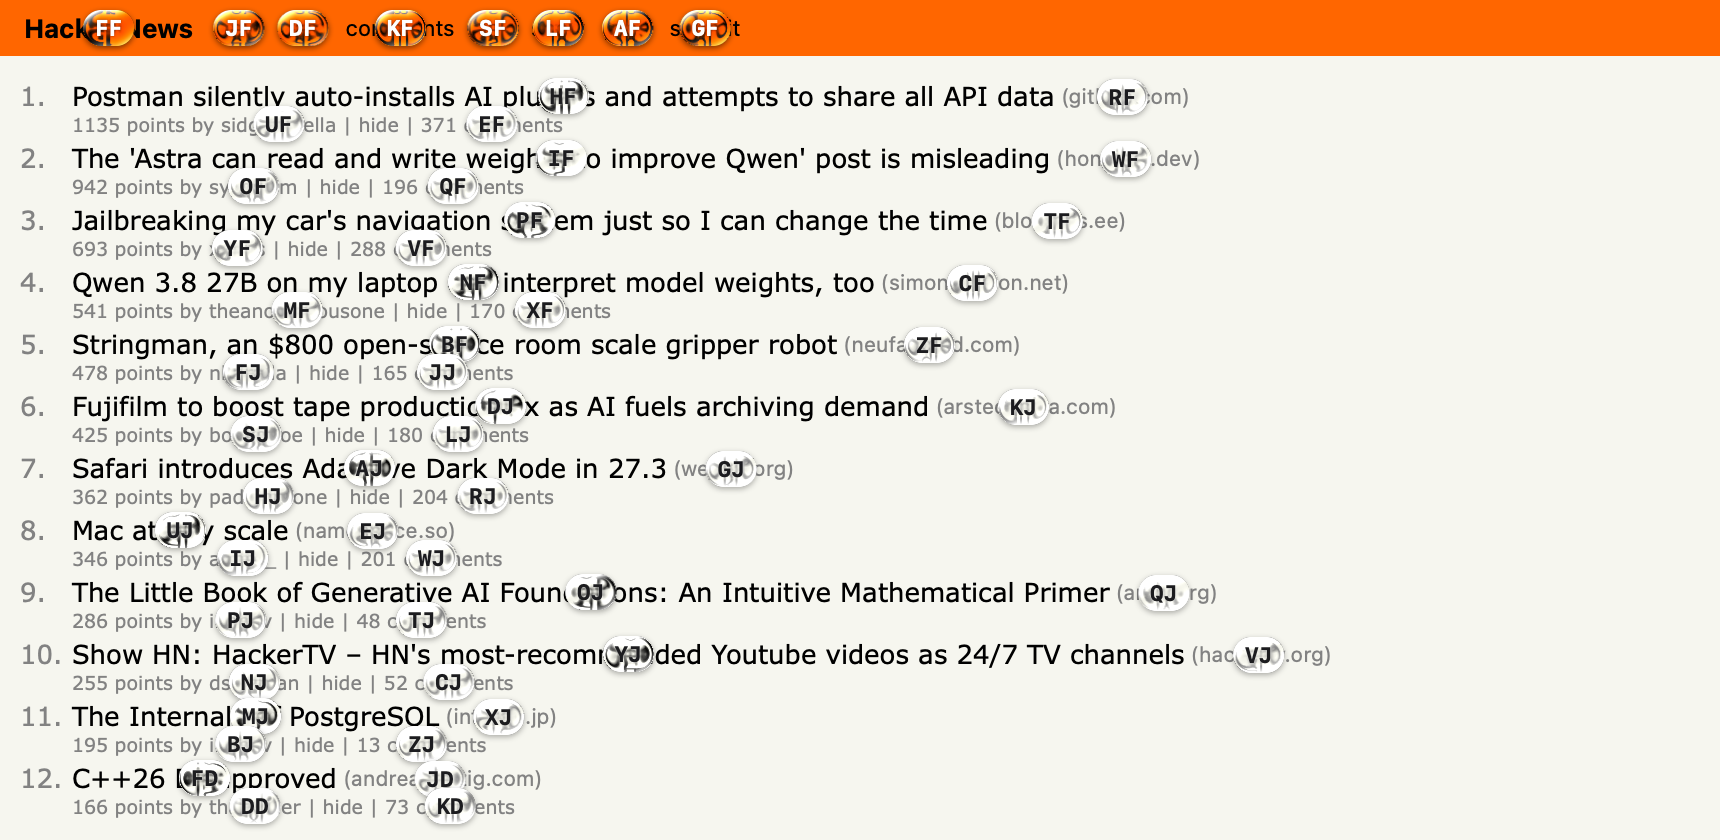
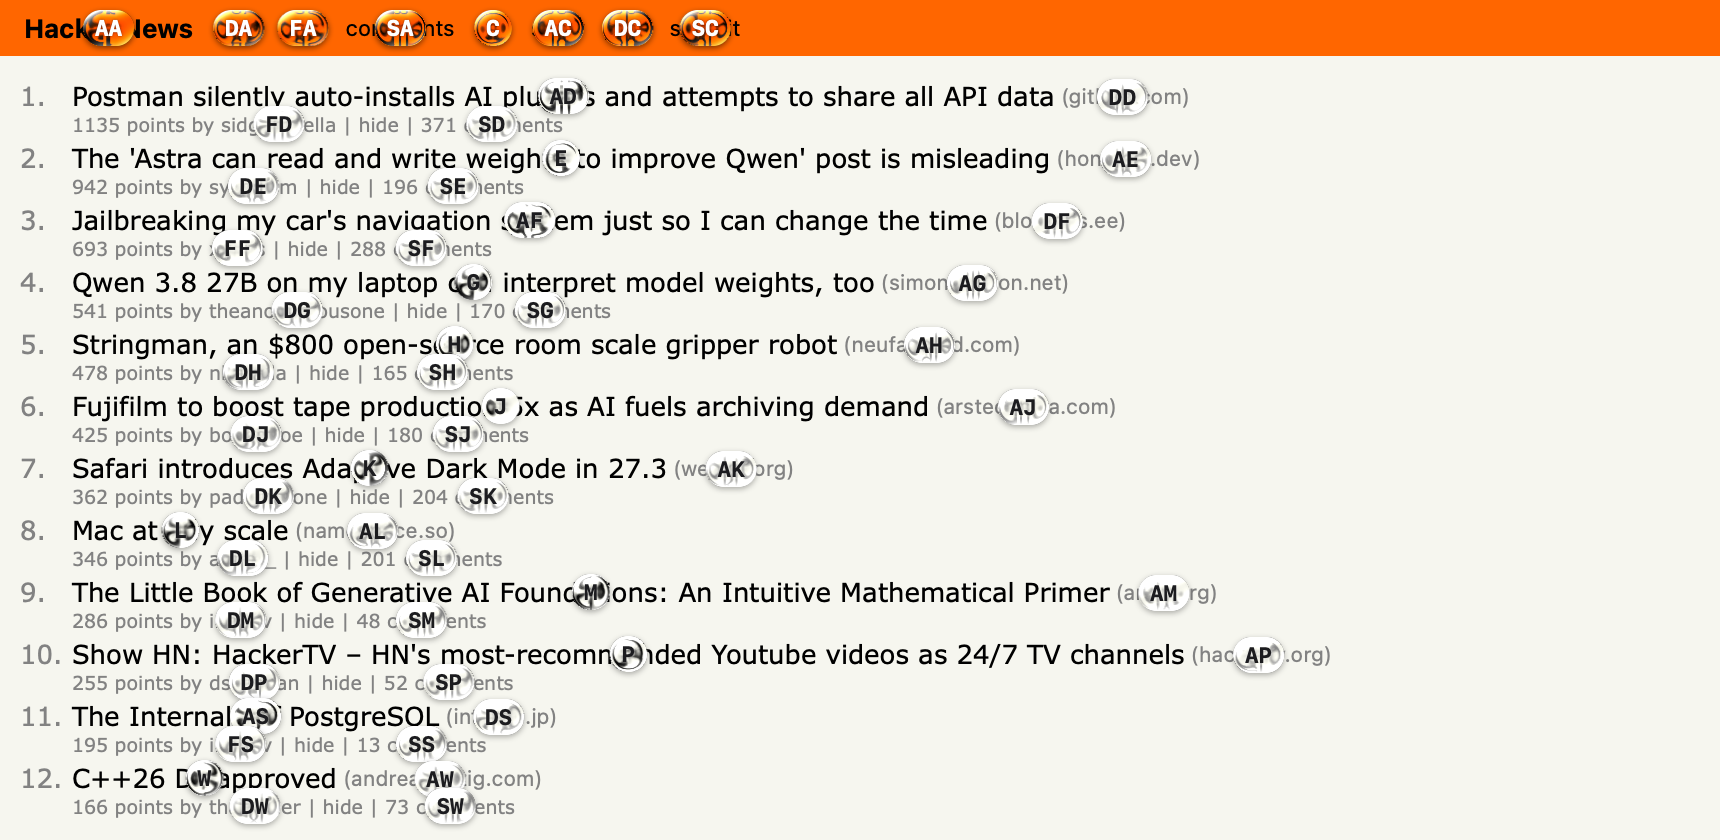
update: 라벨 찾기 2–3배 빠르게, Vimium 라벨 글자, 라벨 사라짐 효과 옵션
- 창 훑기와 열린 메뉴·앱 메뉴·상태 아이콘·Dock 찾기를 동시에, 웹 요소 속성은 4갈래로 나눠 묻기 (찾는 대상은 그대로)
- 라벨 글자 기본값을 Vimium 의 sadfjklewcmpgh 로, 라벨은 Vimium 처럼 적으면 한 글자·많으면 일부만 두 글자
- 설정 › 라벨 클릭에 '라벨이 닫힐 때 서서히 사라지기' (기본 꺼짐)
- README·문서 그림·설정 파일 갱신

diff --git a/hanmium/Sources/Hanmium/TreeBuilder.swift b/hanmium/Sources/Hanmium/TreeBuilder.swift
@@ -85,12 +85,24 @@ final class TreeBuilder {
         AXEnabler.enable(app: app, pid: pid, bundleID: bundleID)
         profile.mark("AX 켜기")
 
-        // 메뉴가 열려 있으면 메뉴 항목만 대상으로 한다
-        let menus = openMenus()
-        profile.mark("열린 메뉴 확인")
-        if !menus.isEmpty {
-            for menu in menus { walk(menu, clip: screenBounds, depth: 0, owner: nil) }
-            return Snapshot(elements: targets, anchor: nil)
+        // 열린 메뉴 확인과 창 밖 대상(앱 메뉴 막대·상태 아이콘·Dock)은 창 훑기와 따로 물을 수 있어서 동시에 한다.
+        // 차례로 하면 기다린 시간이 모두 더해졌다(창 40ms + 상태 아이콘 30ms + …). 상태 아이콘·Dock 은 다른 프로세스다.
+        let side = SideTargets()
+        let group = DispatchGroup()
+        let lane = DispatchQueue.global(qos: .userInteractive)
+        lane.async(group: group) { side.menus = self.openMenus() }
+        lane.async(group: group) {
+            if let bar = AX.element(AX.copy(self.app, kAXMenuBarAttribute)) {
+                side.menuBar = Self.fetchAll(AX.elements(AX.copy(bar, kAXChildrenAttribute)), clip: self.screenBounds)
+            }
+        }
+        lane.async(group: group) { side.extras = Self.fetchAll(self.menubarExtras(), clip: self.screenBounds) }
+        if let dockPid {
+            lane.async(group: group) {
+                let dock = AXUIElementCreateApplication(dockPid)
+                let items = AX.elements(AX.copy(dock, kAXChildrenAttribute)).flatMap { AX.elements(AX.copy($0, kAXChildrenAttribute)) }
+                side.dock = Self.fetchAll(items, clip: self.screenBounds)
+            }
         }
 
         var snap = Snapshot()
@@ -107,21 +119,44 @@ final class TreeBuilder {
                 profile.mark("WezTerm 패널")
             }
         }
-        if let bar = AX.element(AX.copy(app, kAXMenuBarAttribute)) {
-            addFlat(AX.elements(AX.copy(bar, kAXChildrenAttribute)))
+        group.wait()
+        profile.mark("메뉴 막대·상태 아이콘·Dock 기다림")
+        // 메뉴가 열려 있으면 메뉴 항목만 대상으로 한다 (드물어서 창은 미리 훑어 두고 버린다)
+        if !side.menus.isEmpty {
+            targets = []
+            seenFrames = []
+            for menu in side.menus { walk(menu, clip: screenBounds, depth: 0, owner: nil) }
+            return Snapshot(elements: targets, anchor: nil)
         }
-        profile.mark("앱 메뉴 막대")
-        addFlat(menubarExtras())
-        profile.mark("상태 아이콘(\(extraPids.count)개 앱)")
-        if let dockPid {
-            let dock = AXUIElementCreateApplication(dockPid)
-            for list in AX.elements(AX.copy(dock, kAXChildrenAttribute)) {
-                addFlat(AX.elements(AX.copy(list, kAXChildrenAttribute)))
-            }
-        }
-        profile.mark("Dock")
+        for e in side.menuBar + side.extras + side.dock where isTarget(e, insideTarget: true) { add(e) }
         snap.elements = targets
         return snap
+    }
+
+    /// 창 훑기와 동시에 모으는 창 밖 대상. 각 칸은 한 갈래만 쓰고, 읽는 건 group.wait() 뒤다.
+    private final class SideTargets {
+        var menus: [AXUIElement] = []
+        var menuBar: [Element] = []
+        var extras: [Element] = []
+        var dock: [Element] = []
+    }
+
+    /// 요소 여러 개의 속성을 몇 갈래로 나눠 동시에 묻는다. 하나씩 물으면 왕복 시간이 쌓인다
+    /// (웹 화면 요소 100개: 차례로 11–20ms → 4갈래 5–6ms). 순서는 그대로 둔다.
+    static func fetchAll(_ refs: [AXUIElement], clip: CGRect) -> [Element] {
+        guard refs.count > 12 else { return refs.compactMap { Element.fetch($0, clip: clip) } }
+        let lanes = 4
+        var out = [Element?](repeating: nil, count: refs.count)
+        out.withUnsafeMutableBufferPointer { buf in
+            DispatchQueue.concurrentPerform(iterations: lanes) { lane in
+                var i = lane
+                while i < refs.count {
+                    buf[i] = Element.fetch(refs[i], clip: clip)
+                    i += lanes
+                }
+            }
+        }
+        return out.compactMap { $0 }
     }
 
     private func walk(_ ref: AXUIElement, clip: CGRect, depth: Int, owner: Element?) {
@@ -150,10 +185,8 @@ final class TreeBuilder {
         if hasFrame && Self.clippingRoles.contains(role) { childClip = clip.intersection(e.frame) }
 
         if role == "AXWebArea", Config.useSearchPredicate, let found = searchWebArea(ref) {
-            for r in found {
-                if let w = Element.fetch(r, clip: childClip), w.enabled, w.isVisible, !Self.isWebContainer(w) {
-                    add(w)
-                }
+            for w in Self.fetchAll(found, clip: childClip) where w.enabled && w.isVisible && !Self.isWebContainer(w) {
+                add(w)
             }
             return
         }
@@ -188,12 +221,6 @@ final class TreeBuilder {
         }
         targets.append(e)
         return true
-    }
-
-    private func addFlat(_ refs: [AXUIElement]) {
-        for ref in refs {
-            if let e = Element.fetch(ref, clip: screenBounds), isTarget(e, insideTarget: true) { add(e) }
-        }
     }
 
     private func children(_ ref: AXUIElement, role: String) -> [AXUIElement] {

diff --git a/hanmium/Sources/Hanmium/ClickMode.swift b/hanmium/Sources/Hanmium/ClickMode.swift
@@ -28,7 +28,7 @@ final class ClickMode: NSObject, Mode, NSTextFieldDelegate {
         self.labels = LabelMaker.make(count: targets.count, alphabet: alphabet)
         self.alphabet = Set(alphabet)
         self.kind = kind
-        self.overlay = Overlay(keyScreen: screen)
+        self.overlay = Overlay(keyScreen: screen, fades: Config.labelAnimation)
     }
 
     func start() {
@@ -98,7 +98,7 @@ final class ClickMode: NSObject, Mode, NSTextFieldDelegate {
             return
         }
         typed = next
-        // 라벨 길이가 모두 같아서 완전히 일치하면 후보는 하나뿐이다
+        // 어느 라벨도 다른 라벨의 접두사가 아니어서 완전히 일치하면 후보는 하나뿐이다
         if matches.count == 1, labels[matches[0]] == next {
             click(targets[matches[0]], modifiers: event.modifierFlags)
             return
@@ -252,25 +252,18 @@ final class SearchField: NSTextField {
 }
 
 enum LabelMaker {
-    /// 같은 길이의 라벨 n 개. 길이가 같으니 어느 라벨도 다른 라벨의 접두사가 아니다.
-    /// 첫 글자가 가장 빨리 바뀌도록 만들어서 첫 타에 후보가 고르게 줄어든다.
+    /// Vimium 과 같은 방식으로 라벨 n 개를 만든다. 라벨이 적으면 모두 한 글자이고, 모자라면 앞 글자부터
+    /// 두 글자(더 모자라면 세 글자)로 늘린다. 늘린 글자는 한 글자 라벨로 쓰지 않으므로 어느 라벨도
+    /// 다른 라벨의 접두사가 아니다 — 완전히 일치하면 곧 하나뿐이다.
     static func make(count n: Int, alphabet: [Character]) -> [String] {
-        let k = alphabet.count
-        guard n > 0, k > 1 else { return [] }
-        var length = 1
-        var capacity = k
-        while capacity < n {
-            length += 1
-            capacity *= k
+        guard n > 0, alphabet.count > 1 else { return [] }
+        var hints = [""]
+        var offset = 0
+        while hints.count - offset < n || hints.count == 1 {
+            let hint = hints[offset]
+            offset += 1
+            for c in alphabet { hints.append(String(c) + hint) }
         }
-        return (0..<n).map { i in
-            var x = i
-            var chars: [Character] = []
-            for _ in 0..<length {
-                chars.append(alphabet[x % k])
-                x /= k
-            }
-            return String(chars)
-        }
+        return hints[offset..<offset + n].sorted().map { String($0.reversed()) }
     }
 }

diff --git a/hanmium/Sources/Hanmium/Settings.swift b/hanmium/Sources/Hanmium/Settings.swift
@@ -79,6 +79,7 @@ struct SettingsView: View {
     @AppStorage(ModeKind.search.hotkeyKey, store: Config.defaults) private var searchKey = ModeKind.search.defaultHotkey
     @AppStorage(ModeKind.scroll.hotkeyKey, store: Config.defaults) private var scrollKey = ModeKind.scroll.defaultHotkey
     @AppStorage("labelCharacters", store: Config.defaults) private var labelCharacters = Config.defaultLabelCharacters
+    @AppStorage("labelAnimation", store: Config.defaults) private var labelAnimation = false
     @AppStorage("scrollKeys", store: Config.defaults) private var scrollKeys = Config.defaultScrollKeys
     @AppStorage("scrollPxPerMs", store: Config.defaults) private var scrollSpeed = Config.defaultScrollPxPerMs
     @AppStorage("dashMultiplier", store: Config.defaults) private var dashMultiplier = Config.defaultDashMultiplier
@@ -169,7 +170,10 @@ struct SettingsView: View {
             }
             Section("라벨 클릭") {
                 TextField("라벨 문자", text: $labelCharacters)
-                note("앞쪽 문자가 먼저 쓰입니다. 손이 놓이는 키를 앞에 두세요.")
+                note("앞쪽 문자가 먼저 쓰입니다. 손이 놓이는 키를 앞에 두세요. 기본값은 Vimium 과 같은 sadfjklewcmpgh 입니다. "
+                    + "라벨이 적으면 한 글자, 많으면 일부만 두 글자가 됩니다.")
+                Toggle("라벨이 닫힐 때 서서히 사라지기", isOn: $labelAnimation)
+                note("끄면 라벨을 고르거나 Esc 를 누르는 즉시 사라집니다.")
                 VStack(alignment: .leading, spacing: 8) {
                     Text("라벨 색상")
                     LazyVGrid(columns: [GridItem(.adaptive(minimum: 58), spacing: 4)], alignment: .leading, spacing: 6) {
@@ -436,6 +440,7 @@ struct SettingsView: View {
         searchKey = ModeKind.search.defaultHotkey
         scrollKey = ModeKind.scroll.defaultHotkey
         labelCharacters = Config.defaultLabelCharacters
+        labelAnimation = false
         scrollKeys = Config.defaultScrollKeys
         scrollSpeed = Config.defaultScrollPxPerMs
         dashMultiplier = Config.defaultDashMultiplier

diff --git a/hanmium/Sources/Hanmium/Config.swift b/hanmium/Sources/Hanmium/Config.swift
@@ -69,7 +69,8 @@ enum Config {
     /// 빌드한 실행 파일을 바로 실행할 때만 이름을 지정해서 같은 설정을 쓴다.
     static let defaults = Bundle.main.bundleIdentifier == "com.local.Hanmium"
         ? UserDefaults.standard : UserDefaults(suiteName: "com.local.Hanmium") ?? .standard
-    static let defaultLabelCharacters = "fjdkslaghrueiwoqptyvncmxbz"
+    /// Vimium 의 기본 라벨 문자(linkHintCharacters)와 같다
+    static let defaultLabelCharacters = "sadfjklewcmpgh"
     static let defaultScrollKeys = "hjkl"
     static let defaultScrollPxPerMs = 1.2
     static let defaultDashMultiplier = 3.0
@@ -118,6 +119,9 @@ enum Config {
     }
 
     /// 스크롤 움직임 애니메이션 배율. 0 이면 끔(바로 이동), 1 이 기본, 2 는 두 배로 느긋하게.
+    /// 라벨이 닫힐 때 서서히 사라지게 할지 (macOS 기본 창 효과, 약 0.2초). 끄면 바로 사라진다.
+    static var labelAnimation: Bool { defaults.bool(forKey: "labelAnimation") }
+
     static var animationScale: Double {
         min(max(defaults.object(forKey: "animationScale") as? Double ?? 1, 0), 2)
     }
@@ -205,7 +209,7 @@ enum SettingsTransfer {
     static let keys: [String] = [
         "enabled", "appFilterMode", "appList",
         "clickHotkey", "searchHotkey", "scrollHotkey", "clickEnabled", "searchEnabled", "scrollEnabled",
-        "labelCharacters", "labelTheme", "glassRefraction", "glassSpecular", "glassBlur", "glassTint",
+        "labelCharacters", "labelAnimation", "labelTheme", "glassRefraction", "glassSpecular", "glassBlur", "glassTint",
         "useSearchPredicate",
         "scrollKeys", "scrollPxPerMs", "dashMultiplier", "animationScale", "terminalNotchLines",
         "scrollBorderShown", "scrollBorderStyle", "scrollBorderWidth", "scrollBorderColor",

diff --git a/hanmium/Sources/Hanmium/Overlay.swift b/hanmium/Sources/Hanmium/Overlay.swift
@@ -18,11 +18,13 @@ final class Overlay {
     /// 창 번호가 있으면 그 창 바로 위에 끼워 넣어서, 다른 앱 창이 덮으면 같이 가려진다(스크롤 테두리).
     private var stackedAbove: CGWindowID?
 
-    init(keyScreen: NSScreen, stackedAbove: CGWindowID? = nil) {
+    /// fades: 닫을 때 macOS 기본 효과로 서서히 사라진다(약 0.2초). false 면 바로 사라진다.
+    init(keyScreen: NSScreen, stackedAbove: CGWindowID? = nil, fades: Bool = true) {
         self.stackedAbove = stackedAbove
         let glass = Config.labelTheme.glass
         for screen in NSScreen.screens {
             let panel = OverlayPanel(screen: screen)
+            if !fades { panel.animationBehavior = .none }
             if stackedAbove != nil { panel.level = .normal }
             let canvas = CanvasView(frame: NSRect(origin: .zero, size: screen.frame.size),
                                     axOrigin: Screens.axFrame(screen).origin)

diff --git a/hanmium/Tools/DocImages/main.swift b/hanmium/Tools/DocImages/main.swift
@@ -99,7 +99,7 @@ do {
         }
     }!
     let source = GlassSource(ScreenSnapshot(image: bg, axFrame: CGRect(origin: .zero, size: size))!)
-    let labels = LabelMaker.make(count: targets.count, alphabet: Array("fjdkslaghrueiwoqptyvncmxbz"))
+    let labels = LabelMaker.make(count: targets.count, alphabet: Array(Config.defaultLabelCharacters))
     savePNG("labels", size: size) {
         drawBackground(bg, size)
         Draw.glassSource = source
@@ -266,7 +266,7 @@ func render(size: CGSize, scale s: CGFloat, _ body: () -> Void) -> CGImage? {
     return ctx.makeImage()
 }
 
-let alphabet = Array("fjdkslaghrueiwoqptyvncmxbz")
+let alphabet = Array(Config.defaultLabelCharacters)
 
 /// 화면에 라벨을 붙인 그림 (typed: 이미 친 글자, 맞는 라벨만 남긴다)
 func drawLabels(_ m: MockScreen, size: CGSize, typed: String = "") {

diff --git a/hanmium/TESTING.md b/hanmium/TESTING.md
@@ -89,6 +89,9 @@
 | 측정 | 결과 |
 |---|---|
 | 라벨 찾기 단계별 (WezTerm·Finder·Slack) | 메뉴 막대 상태 아이콘 찾기가 200–275ms로 전체(250–380ms)의 70–85%. 창 안 훑기는 1–35ms. 실행 중인 46개 앱마다 상태 아이콘을 묻고, 응답이 늦은 앱을 제한 시간(150ms)까지 기다림 (아직 고치지 않음) |
+| 라벨 찾기 동시 처리 (2026-11-04) | 실행 중인 앱처럼 상태 아이콘 캐시를 채우고 1초씩 쉬며 4번, 바꾸기 전/후 코드를 연달아 실행해 대상 목록 비교 | 확인됨: 7개 앱 모두 찾은 대상이 바꾸기 전과 같음(다른 항목 0). 창 훑기와 앱 메뉴·상태 아이콘·Dock·열린 메뉴 확인을 동시에, 웹 화면 요소 속성은 4갈래로 나눠 묻게 함. Finder 36–51 → 13–34ms, Pages 87–111 → 46–72, VS Code 68–89 → 27–40, Slack 63–93 → 22–33, Chrome 78–92 → 32–43, WezTerm 56–72 → 16–29, 캘린더 248–309 → 184–222 (캘린더는 요소 하나에 1–2ms 걸리는 앱 쪽 응답이 병목) |
+| 라벨 글자 (Vimium 방식) | `LabelMaker.make` 를 1~800개로 | 확인됨: 개수 맞음, 중복 없음, 어느 라벨도 다른 라벨의 앞부분이 아님. 기본 글자 sadfjklewcmpgh 로 10개 → 모두 한 글자, 20개 → 한 글자 13·두 글자 7, 150개 → 한 글자 3·두 글자 147, 250개 → 두 글자 191·세 글자 59 |
+| 라벨 닫힘 효과 끄기 | 투명 오버레이 패널을 띄웠다 닫으며 창 알파를 25ms마다 읽음 | 확인됨: 나타날 때는 원래 바로 뜸. 닫힐 때 기본은 약 0.15–0.2초 동안 서서히 사라짐(0.71 → 0.35 → 0.15 …), `animationBehavior = .none` 이면 바로 사라짐 |
 | `wezterm cli list` / `list-clients` | 10–30ms, 문제없음 |
 | 화면 사진 변환 (1920×1080) | 7.6ms |
 | 유리 라벨 250개 | CPU 122.7ms → **GPU 4.5ms** (첫 실행 9ms) |
